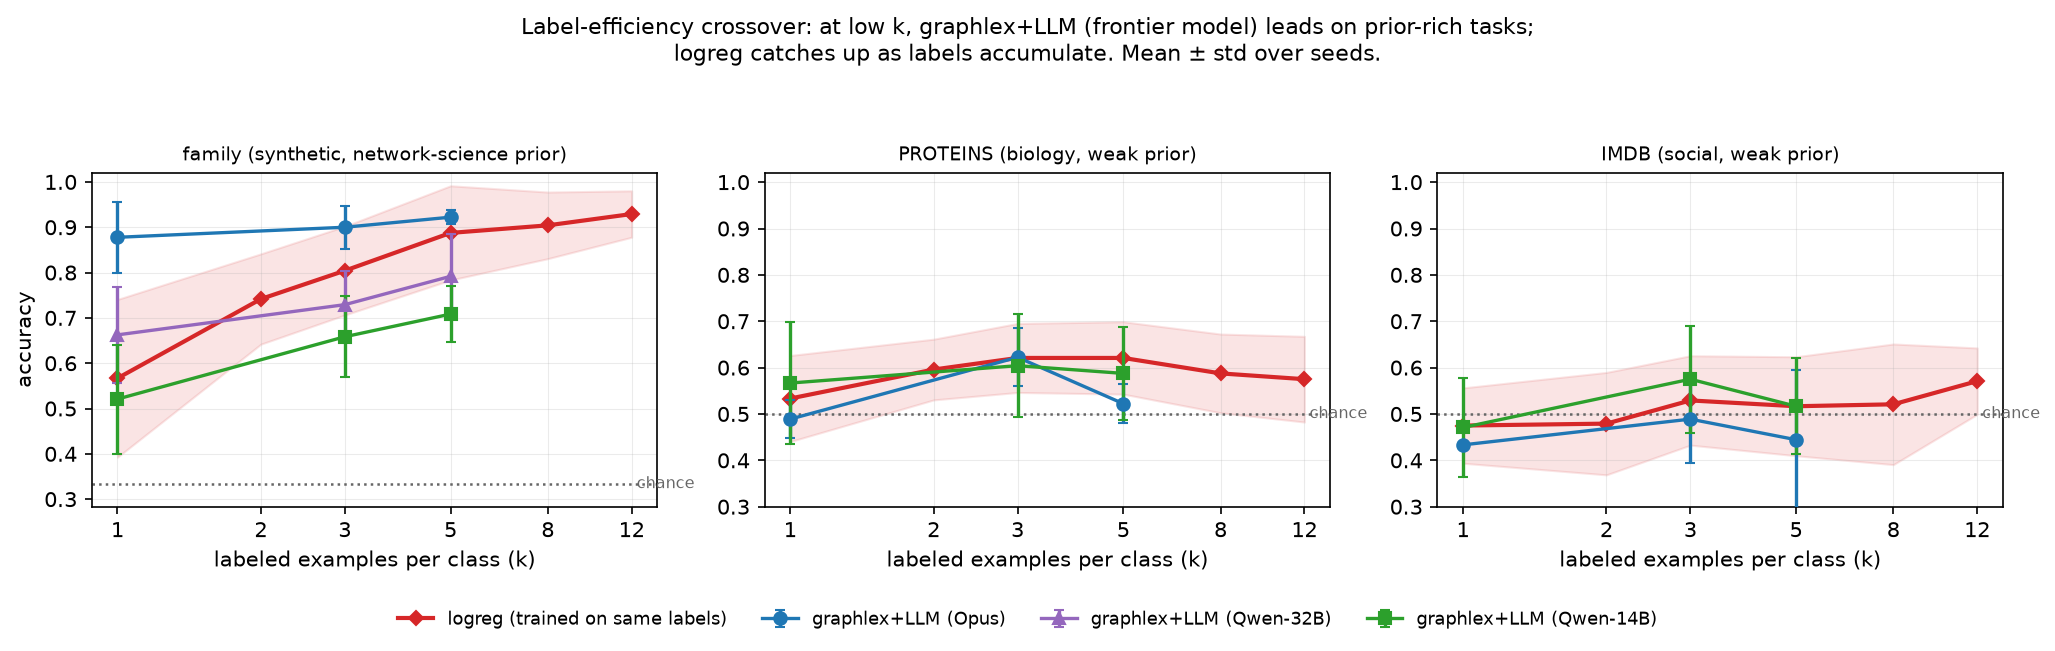
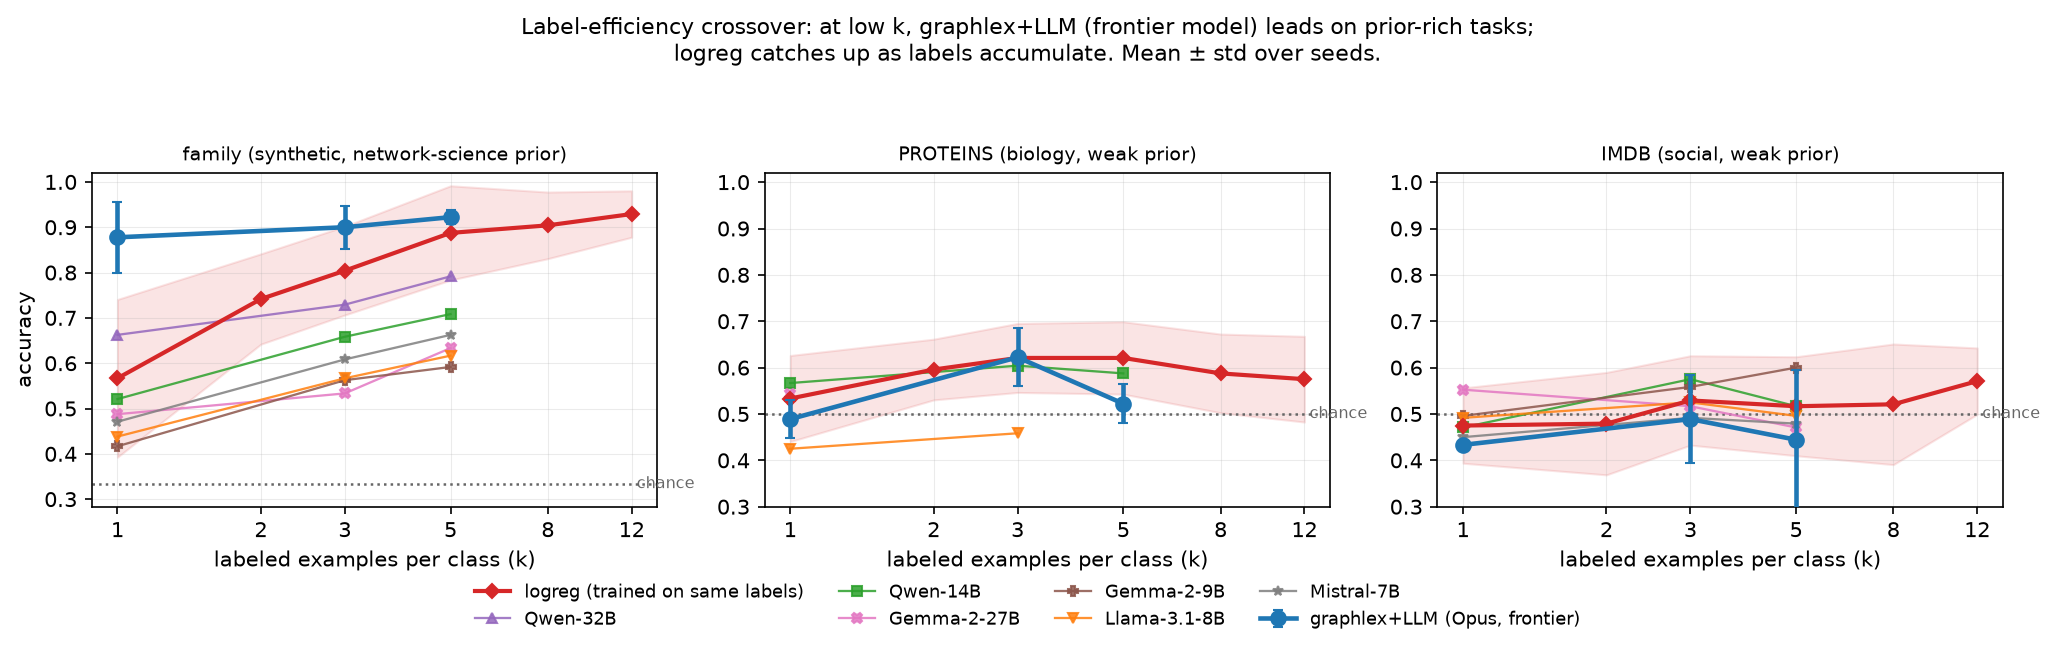
Demo copy button; open families in label-efficiency figure; finish IMDB (PROTEINS partial)
- demo: 'Copy' button top-right of the prompt-preview box (clipboard API + execCommand
  fallback) so the exact prompt can be pasted into any chat UI.
- make_figures: label-efficiency figure now plots all 7 models (Opus bold+band on top,
  logreg bold, 6 open families as thinner secondary lines).
- run_qwen: add STRICT (append strict-format suffix) + REDO_UNPARSED (re-run cells whose
  .ans doesn't parse) for completing format-failed runs.
- (a) PROTEINS/IMDB completion for open families: IMDB now ~complete (21-24/24); PROTEINS
  stays partial -- small models can't format on the long attributed prompts even with
  strict instruction (genuine limitation). FAMILY remains the clean cross-family ladder.

diff --git a/eval/make_figures.py b/eval/make_figures.py
@@ -253,6 +253,10 @@ def labelcurve_data():
             "opus": llm_scores(t, "opus"),
             "qwen14": llm_scores(t, "qwen"),
             "qwen32": llm_scores(t, "qwen32"),
+            "gemma2_27b": llm_scores(t, "gemma2_27b"),
+            "gemma2_9b": llm_scores(t, "gemma2_9b"),
+            "llama31_8b": llm_scores(t, "llama31_8b"),
+            "mistral_7b": llm_scores(t, "mistral_7b"),
         }
     return man["k_logreg"], data
 
@@ -275,11 +279,17 @@ def fig_label_efficiency(k_logreg, data):
     if len(order) == 1:
         axes = [axes]
 
+    # Opus + logreg are the focus (bold); open families are secondary (thinner).
     style = {
-        "opus":   dict(color="#1f77b4", marker="o", label="graphlex+LLM (Opus)"),
-        "qwen32": dict(color="#9467bd", marker="^", label="graphlex+LLM (Qwen-32B)"),
-        "qwen14": dict(color="#2ca02c", marker="s", label="graphlex+LLM (Qwen-14B)"),
+        "opus":       dict(color="#1f77b4", marker="o", label="graphlex+LLM (Opus, frontier)"),
+        "qwen32":     dict(color="#9467bd", marker="^", label="Qwen-32B"),
+        "qwen14":     dict(color="#2ca02c", marker="s", label="Qwen-14B"),
+        "gemma2_27b": dict(color="#e377c2", marker="X", label="Gemma-2-27B"),
+        "gemma2_9b":  dict(color="#8c564b", marker="P", label="Gemma-2-9B"),
+        "llama31_8b": dict(color="#ff7f0e", marker="v", label="Llama-3.1-8B"),
+        "mistral_7b": dict(color="#7f7f7f", marker="*", label="Mistral-7B"),
     }
+    open_models = ["qwen32", "qwen14", "gemma2_27b", "gemma2_9b", "llama31_8b", "mistral_7b"]
 
     for ax, t in zip(axes, order):
         d = data[t]
@@ -287,15 +297,19 @@ def fig_label_efficiency(k_logreg, data):
         # logreg curve (full k grid)
         lk, lm, ls = _ms(d["logreg"])
         ax.plot(lk, lm, color="#d62728", marker="D", lw=2.0, ms=5,
-                label="logreg (trained on same labels)", zorder=3)
+                label="logreg (trained on same labels)", zorder=5)
         ax.fill_between(lk, lm - ls, lm + ls, color="#d62728", alpha=0.12)
-        # LLM points (k = 1,3,5 where available)
-        for mk in ["opus", "qwen32", "qwen14"]:
-            if not d[mk]:
+        # open-family LLMs (thinner, secondary)
+        for mk in open_models:
+            if not d.get(mk):
                 continue
             kk, mm, ss = _ms(d[mk])
-            ax.errorbar(kk, mm, yerr=ss, lw=1.6, ms=6, capsize=2.5,
-                        zorder=4, **style[mk])
+            ax.plot(kk, mm, lw=1.1, ms=5, alpha=0.85, zorder=4, **style[mk])
+        # Opus on top (bold, with error band)
+        if d.get("opus"):
+            kk, mm, ss = _ms(d["opus"])
+            ax.errorbar(kk, mm, yerr=ss, lw=2.2, ms=7, capsize=2.5,
+                        zorder=6, **style["opus"])
         ax.axhline(ch, color="0.4", ls=":", lw=1.2)
         ax.text(k_logreg[-1], ch, " chance", va="center", ha="left",
                 fontsize=7.5, color="0.4")

diff --git a/demo/app.py b/demo/app.py
@@ -373,8 +373,13 @@ PAGE = r"""<!doctype html>
   pre { white-space: pre-wrap; word-break: break-word; background:#1a202c; color:#e2e8f0;
         padding:12px; border-radius:8px; font-size:12px; overflow:auto; max-height:380px; }
   details summary { cursor:pointer; font-weight:600; font-size:13px; margin-top:10px; }
+  .promptwrap { position:relative; }
   .prompt { white-space: pre-wrap; background:#fffaf0; border:1px solid #feebc8;
-            border-radius:8px; padding:12px; font-size:13px; }
+            border-radius:8px; padding:12px; padding-top:34px; font-size:13px; }
+  .copybtn { position:absolute; top:6px; right:6px; font-size:12px; cursor:pointer;
+             background:#fff; color:#c05621; border:1px solid #feb2a8;
+             border-radius:6px; padding:3px 9px; }
+  .copybtn:hover { background:#fffaf0; }
   .answer { white-space: pre-wrap; background:#f0fff4; border:1px solid #c6f6d5;
             border-radius:8px; padding:12px; font-size:14px; }
   .hidden { display:none; }
@@ -445,7 +450,10 @@ PAGE = r"""<!doctype html>
     <button id="askBtn" class="ask" onclick="ask()">Ask the LLM</button>
     <div id="askOut" class="hidden">
       <div class="ctxlabel" id="promptLabel"></div>
-      <div id="prompt" class="prompt"></div>
+      <div class="promptwrap">
+        <button class="copybtn" onclick="copyPrompt(this)">Copy</button>
+        <div id="prompt" class="prompt"></div>
+      </div>
       <div class="ctxlabel" id="answerLabel">LLM answer:</div>
       <div id="answer" class="answer"></div>
     </div>
@@ -463,6 +471,21 @@ function buildPrompt(verb, q) {
     "description of its structure (you do NOT have the raw graph, only this " +
     "verbalized summary):\n\n" + verb + "\n\nQuestion: " + (q || "") + "\n\n" +
     "Answer concisely, citing the specific numbers above that justify your reasoning.";
+}
+function copyPrompt(btn) {
+  const txt = document.getElementById('prompt').textContent;
+  const done = () => { const o = btn.textContent; btn.textContent = 'Copied!';
+                       setTimeout(() => { btn.textContent = o; }, 1200); };
+  if (navigator.clipboard && navigator.clipboard.writeText) {
+    navigator.clipboard.writeText(txt).then(done).catch(() => fallbackCopy(txt, done));
+  } else { fallbackCopy(txt, done); }
+}
+function fallbackCopy(txt, done) {
+  const ta = document.createElement('textarea');
+  ta.value = txt; ta.style.position = 'fixed'; ta.style.opacity = '0';
+  document.body.appendChild(ta); ta.select();
+  try { document.execCommand('copy'); done(); } catch (e) {}
+  document.body.removeChild(ta);
 }
 function updatePreview() {
   if (!lastVerbalization) return;

diff --git a/eval/run_qwen.py b/eval/run_qwen.py
@@ -18,6 +18,16 @@ NUM_CTX = int(os.environ.get('NUM_CTX', '16384'))
 HOST = os.environ.get('QHOST', 'clpc35')
 OUTSUB = os.environ.get('OUTSUB', 'qwen')          # ans/<OUTSUB>/ output subdir
 DOMAINS = os.environ.get('DOMAINS', '')             # comma-sep domain filter, '' = all
+STRICT = os.environ.get('STRICT')                  # append a strict-format instruction
+REDO_UNPARSED = os.environ.get('REDO_UNPARSED')    # re-run files that have 0 parseable lines
+
+STRICT_SUFFIX = ("\n\nIMPORTANT: Output ONLY the answer lines, one per query, each "
+                 "EXACTLY '<id> <CLASS>' (e.g. '0 CLASS1'), in id order. No 'Query' "
+                 "prefix, no explanation, no blank lines, no markdown.")
+
+if REDO_UNPARSED:
+    sys.path.insert(0, os.path.dirname(os.path.abspath(__file__)))
+    from _common import parse_ans
 
 
 def gen(prompt):
@@ -46,10 +56,12 @@ def main():
         os.makedirs(outdir, exist_ok=True)
         outf = f"{outdir}/{stem}.ans"
         if os.path.exists(outf) and os.path.getsize(outf) > 0:
-            done += 1
-            continue
+            if not REDO_UNPARSED or parse_ans(outf):
+                done += 1
+                continue
         try:
-            resp = gen(open(f).read())
+            prompt = open(f).read() + (STRICT_SUFFIX if STRICT else "")
+            resp = gen(prompt)
         except Exception as e:
             print(f"ERR {dom}/{stem}: {e}", flush=True)
             continue

diff --git a/eval/LABEL_CURVE_RESULTS.md b/eval/LABEL_CURVE_RESULTS.md
@@ -81,10 +81,16 @@ only Opus stays above logreg. Model *size within a family* helps (Qwen 14B→32B
 Qwen-32B) — capability, not parameter count alone. This sharpens the headline from
 "Opus-specific" to **"requires a high-capability model, shown across 5 families."**
 
-Caveat: PROTEINS/IMDB coverage for the new open families is **partial** (interrupted
-runs + format drift on the longer attributed prompts — several cells n<8 or missing),
-so only the FAMILY domain is a clean cross-family ladder; treat proteins/imdb
-multi-family cells as incomplete. Opus/Qwen rows there are the trustworthy ones.
+Coverage (after a strict-format completion pass): **IMDB is now ~complete** for the
+open families (21–24/24 seeds parse); **PROTEINS stays partial** — the small models
+fail to emit clean answer format on PROTEINS' long attributed prompts (structure +
+composition + bond lists) even with an explicit strict-format instruction:
+Gemma-2-9B 1/24, Mistral-7B & Gemma-2-27B ~7/24, Llama-3.1-8B 16/24 parse. This is a
+genuine small-model instruction-following limitation on long prompts, not a harness
+bug. (Qwen-32B was run on the FAMILY label-curve only.) PROTEINS/IMDB are near-chance
+for *all* methods anyway (weak prior), so **FAMILY remains the clean, meaningful
+cross-family ladder.** The label-efficiency figure (`fig_label_efficiency.png`) now
+plots all 7 models across the 3 panels.
 
 ## Caveats
 - 3 seeds, single ICL draw — family margins at k=1,3 are large/robust; PROTEINS